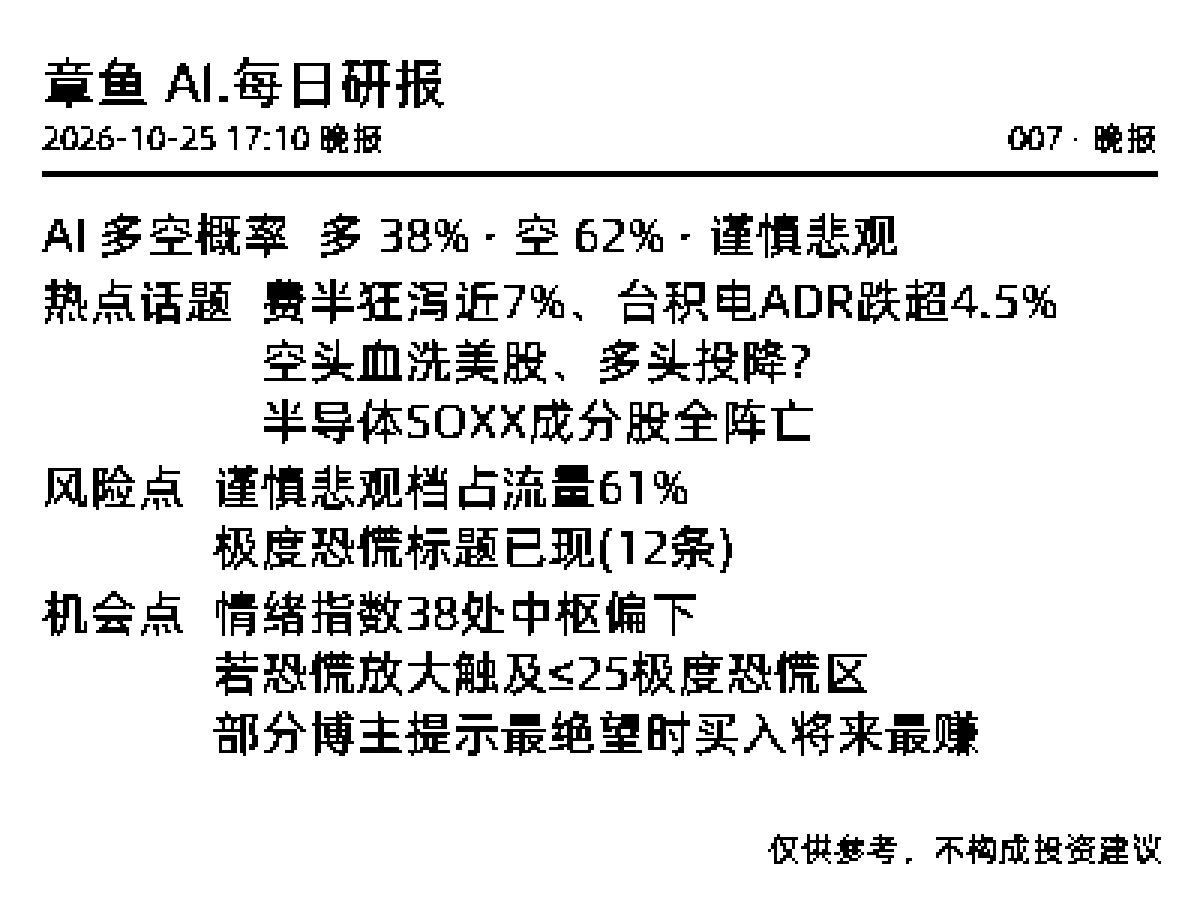
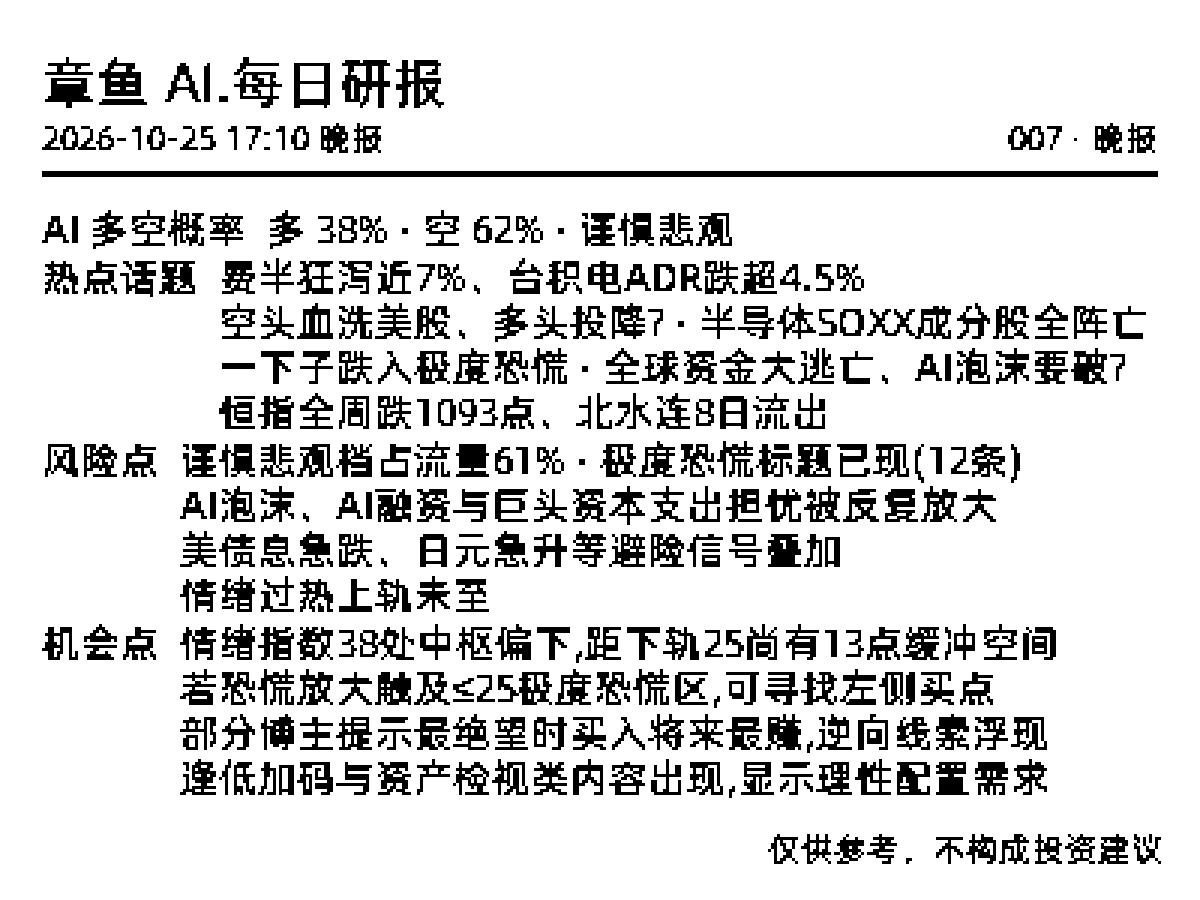
正文字号改 13px，排版整体紧凑
- 固定字号规格 fixed16 → fixed13：SUM_SIZE_SCALE、页面字号控件、
  WebFont 加载、字体样张基准（样张行现为 16/13/10，可真机对比新旧）
- 紧凑排版：行距三档整体收紧一档（行高倍数 1.5/1.36/1.25 → 1.36/1.25/1.15，
  块距同步减小）；仍按内容优先在完整方案中选保留最多的
- fixedCompact 不再写死字号数值：有显式固定字号且为矮屏即走单行紧凑
- 顺带补上上个提交未落盘的页面版本号串（统一为 20261025-fixed13）
- 测试：16px 规格断言全量切换为 13px；重载门槛按 13px 能力上调
  （400×300 ≥11 行、热点 ≥5 条、风险 ≥4 条、保留率 ≥50%）
  并新增紧凑行高断言
- 效果（真实普惠体字宽）：400×300 排满 13 行，截图量级数据保留率
  30%→64%（热点 6/6、风险 5/5、机会 4/5）；两款矮屏可排 5 行，
  概率栏恢复带情绪档完整显示；已更新预览图与两份文档

Changed region(s): [[0.0308, 0.2178, 0.9558, 0.9022]]

diff --git a/js/ai-summary.js b/js/ai-summary.js
@@ -298,7 +298,8 @@ function buildCard(report) {
 
 /**
  * 固定使用随页面打包的阿里巴巴普惠体 3.0 / 55 Regular。
- * 三款支持的屏幕正文均严格使用 16px；标题、栏目标签、正文均不合成粗体。
+ * 三款支持的屏幕正文均严格使用 13px（紧凑排版，一屏装下更多完整内容）；
+ * 标题、栏目标签、正文均不合成粗体。
  * 两款矮屏通过单行紧凑排版和完整短句候选保留全部四栏，而不是缩小字号。
  */
 const SUM_FONTS = {
@@ -310,7 +311,7 @@ const SUM_FONTS = {
 };
 
 const SUM_SIZE_SCALE = {
-  fixed16: { label: '16px', offset: 0, bodySize: 16 },
+  fixed13: { label: '13px', offset: 0, bodySize: 13 },
 };
 
 const SUM_WEB_FONT = 'Alibaba PuHuiTi 3';
@@ -323,7 +324,7 @@ function ensureSummaryFont() {
   }
   if (!sumFontLoadPromise) {
     sumFontLoadPromise = document.fonts.load(
-      '400 16px "' + SUM_WEB_FONT + '"', '章鱼研报多空热点风险机会'
+      '400 13px "' + SUM_WEB_FONT + '"', '章鱼研报多空热点风险机会'
     ).then(faces => {
       if (!faces || !faces.length) throw new Error('阿里巴巴普惠体加载失败');
       return true;
@@ -335,7 +336,7 @@ function ensureSummaryFont() {
   return sumFontLoadPromise;
 }
 
-/** 旧调用未指定固定字号时的兼容下限；页面的三款屏幕均固定使用 16px。 */
+/** 旧调用未指定固定字号时的兼容下限；页面的三款屏幕均固定使用 13px。 */
 const SUM_MIN_FONT = 10;
 
 function sumDisplayOptions() {
@@ -344,8 +345,8 @@ function sumDisplayOptions() {
   const font = SUM_FONTS[fontKey] || SUM_FONTS.puhui;
 
   const scaleEl = document.getElementById('sum-size-scale');
-  const scaleKey = (scaleEl && scaleEl.value) || 'fixed16';
-  const scaleDef = SUM_SIZE_SCALE[scaleKey] || SUM_SIZE_SCALE.fixed16;
+  const scaleKey = (scaleEl && scaleEl.value) || 'fixed13';
+  const scaleDef = SUM_SIZE_SCALE[scaleKey] || SUM_SIZE_SCALE.fixed13;
 
   return {
     fontKey: SUM_FONTS[fontKey] ? fontKey : 'puhui',
@@ -358,7 +359,7 @@ function sumDisplayOptions() {
   };
 }
 
-// ---------- 偏好记忆（字体 / 16px 固定，只记屏幕尺寸与预览倍数） ----------
+// ---------- 偏好记忆（字体 / 13px 固定，只记屏幕尺寸与预览倍数） ----------
 
 const SUM_PREF_KEYS = ['sum-size', 'sum-zoom'];
 
@@ -589,7 +590,7 @@ function drawCard(ctx, card, w, h, opts) {
   const areaHeight = areaBottom - areaTop;
 
   // 未显式传入固定字号的兼容路径仍按画布计算上下限；页面配置会在下方
-  // 直接指定 16px，不使用这套自适应上限。
+  // 直接指定 13px，不使用这套自适应上限。
   const baseBody = clamp(Math.round(h * 0.052), SUM_MIN_FONT, 22);
   const maxBody = clamp(Math.min(baseBody + 7, Math.floor(areaHeight / 5.2)), baseBody, 24);
 
@@ -600,7 +601,9 @@ function drawCard(ctx, card, w, h, opts) {
   const squeezeText = t => String(t).replace(/\s+/g, '');
 
   const totalChars = source.reduce((a, it) => a + squeezeText(it.text).length, 0) || 1;
-  const fixedCompact = Number(opts.bodySize) === 16 && h <= 128;
+  // 页面显式固定字号（当前 13px）时，两款矮屏走单行紧凑承载四栏；
+  // 不写死具体字号数字，改字号规格时这里不用跟着改
+  const fixedCompact = Number.isFinite(Number(opts.bodySize)) && h <= 128;
 
   /** 某个字号下，每条内容按可用宽度折行后的行数 */
   const measureBlock = (item, bodySize, labelSize) => {
@@ -616,9 +619,10 @@ function drawCard(ctx, card, w, h, opts) {
   };
 
   /**
-   * 「尽量一屏，不够用简单压缩」排版：
-   *   ① 间距三档（profile）：0 宽松 → 1 紧 → 2 紧凑，只压行距/块距，不缩字号；
-   *      两款矮屏在 1 档起直接用单行紧凑（122/128px 容纳四个 16px 区块）。
+   * 「尽量一屏，不够用简单压缩」排版（13px 紧凑规格）：
+   *   ① 间距三档（profile）整体走紧凑：0 档行高 1.36 → 1 档 1.25 → 2 档 1.15，
+   *      只压行距/块距，不缩字号；两款矮屏在 1 档起直接用单行紧凑
+   *      （122/128px 高度容纳四个 13px 区块，富余行数还可给某一栏排两行）。
    *   ② 每栏自带逐级更短的完整候选（候选阶梯见 itemVariants）：
    *      先按全文量行，放不下就把「当前行数最多」的一栏整栏降一档，
    *      循环到总行数能装进一屏——行数在各栏之间自然均衡，无需预先分行。
@@ -634,14 +638,14 @@ function drawCard(ctx, card, w, h, opts) {
       lineH = bodySize;
       blockGap = 1;
     } else if (profile <= 0) {
-      lineH = Math.round(bodySize * 1.5);
-      blockGap = Math.max(2, Math.round(bodySize * 0.4));
-    } else if (profile === 1) {
       lineH = Math.round(bodySize * 1.36);
       blockGap = Math.max(2, Math.round(bodySize * 0.24));
-    } else {
+    } else if (profile === 1) {
       lineH = Math.round(bodySize * 1.25);
       blockGap = 2;
+    } else {
+      lineH = Math.round(bodySize * 1.15);
+      blockGap = 1;
     }
     const capacity = Math.floor((areaHeight - blockGap * (count - 1)) / lineH);
     if (capacity < count) return null;
@@ -725,10 +729,10 @@ function drawCard(ctx, card, w, h, opts) {
   const keptCharsOf = got => got.blocks.reduce((a, b) => a + squeezeText(b.item.text.replace(/…$/, '')).length, 0);
 
   /**
-   * 某个字号下把间距三档「宽松 → 紧 → 紧凑」都试排一遍，内容优先：
+   * 某个字号下把三档紧凑行距（1.36 → 1.25 → 1.15）都试排一遍，内容优先：
    *   ① 能完整装进一屏（clean）的方案里，选保留内容最多的——
-   *      内容重的日子会自动收紧间距多装两行，而不是宽松地只剩半栏；
-   *   ② 保留字数相同时取更宽松的间距（先试到的先得），内容轻时排得舒展；
+   *      内容重的日子会自动收紧间距多装几行，而不是只剩半栏；
+   *   ② 保留字数相同时取相对宽松的一档（先试到的先得；最松一档也是紧凑行距）；
    *   ③ 三档都不完整时，取保留内容最多的兜底。
    */
   const bestPlanAt = (size) => {
@@ -758,7 +762,7 @@ function drawCard(ctx, card, w, h, opts) {
     return fallback ? fallback.size : SUM_MIN_FONT;
   };
 
-  // 显式配置的 16px 不再受矮屏自适应上限影响；两款矮屏由紧凑单行布局承载。
+  // 显式配置的 13px 不再受矮屏自适应上限影响；两款矮屏由紧凑单行布局承载。
   const minReadable = clamp(Math.round(h * 0.09), SUM_MIN_FONT, 14);
   const requestedSize = Number(opts.bodySize);
   const preferredSize = Number.isFinite(requestedSize) ? requestedSize : nativeSize() + offset;
@@ -1151,7 +1155,7 @@ function drawFontSample(ctx, w, h, opts) {
 
   const headTop = pad + titleSize + Math.round(pad * 0.4);
   ctx.font = cardFont(headSize, opts, false);
-  ctx.fillText('同句对比 · 全部非加粗 · 基准16px', pad, headTop);
+  ctx.fillText('同句对比 · 全部非加粗 · 基准13px', pad, headTop);
   const right = '挑最清楚的';
   ctx.fillText(right, w - pad - ctx.measureText(right).width, headTop);
 
@@ -1160,7 +1164,7 @@ function drawFontSample(ctx, w, h, opts) {
   ctx.fillRect(pad, ruleY, maxWidth, ruleH);
 
   const requested = Number(opts && opts.bodySize);
-  const base = Math.max(SUM_MIN_FONT, Math.min(22, Number.isFinite(requested) ? requested : 16));
+  const base = Math.max(SUM_MIN_FONT, Math.min(22, Number.isFinite(requested) ? requested : 13));
   // 样张可比较相邻字号，但所有行都保持用户指定的 Regular 字重。
   const rows = [base + 3, base, base - 3, base - 5]
     .map(size => ({ size, bold: false }))

diff --git a/index.html b/index.html
@@ -5,7 +5,7 @@
     <meta name="viewport" content="width=device-width, initial-scale=1">
     <title>章鱼 AI.每日研报</title>
     <link rel="preload" href="fonts/AlibabaPuHuiTi-3-55-Regular.woff2" as="font" type="font/woff2" crossorigin>
-	<link rel="stylesheet" href="css/main.css?v=20261024-puhui16">
+	<link rel="stylesheet" href="css/main.css?v=20261025-fixed13">
 </head>
 
 <body>
@@ -47,8 +47,8 @@
                         <option value="puhui" selected>阿里巴巴普惠体（非加粗）</option>
                     </select>
                     <label for="sum-size-scale">字号</label>
-                    <select id="sum-size-scale" disabled aria-label="固定字号：16px">
-                        <option value="fixed16" selected>16px</option>
+                    <select id="sum-size-scale" disabled aria-label="固定字号：13px">
+                        <option value="fixed13" selected>13px</option>
                     </select>
                     <label for="sum-zoom">预览</label>
                     <select id="sum-zoom" onchange="previewSummary()">
@@ -67,7 +67,7 @@
                     <button id="btn-push-sample" type="button" class="secondary" onclick="pushFontSample()">推送字体样张</button>
                 </div>
             </div>
-            <div class="sum-hint">每天澳门时间 09:10 / 17:10 读取仓库 007；屏上只显示「AI 多空概率、热点话题、风险点、机会点」。固定使用阿里巴巴普惠体、16px、非加粗；三种屏幕均保留完整四栏。内容多时自动简单压缩（去权重标注 → 完整短句 → 减条数 → 收紧行距）装进一屏，不把句子截断。</div>
+            <div class="sum-hint">每天澳门时间 09:10 / 17:10 读取仓库 007；屏上只显示「AI 多空概率、热点话题、风险点、机会点」。固定使用阿里巴巴普惠体、13px、非加粗、紧凑排版；三种屏幕均保留完整四栏。内容多时自动简单压缩（去权重标注 → 完整短句 → 减条数 → 收紧行距）装进一屏，不把句子截断。</div>
             <canvas id="sum-preview"
                 style="display:none;width:100%;max-width:420px;margin-top:10px;border:1px solid #E4E4E7;image-rendering:pixelated;"></canvas>
             <div id="sum-status" style="margin-top:8px;font-size:0.9rem;color:#666;">尚未生成预览</div>
@@ -89,8 +89,8 @@
             <div id="auto-status" style="margin-top:8px; font-size:0.9rem; color:#666;">自动推送：已停止</div>
         </fieldset>
     </div>
-    <script type="text/javascript" src="js/main.js?v=20261024-puhui16"></script>
-    <script type="text/javascript" src="js/ai-summary.js?v=20261024-puhui16"></script>
+    <script type="text/javascript" src="js/main.js?v=20261025-fixed13"></script>
+    <script type="text/javascript" src="js/ai-summary.js?v=20261025-fixed13"></script>
 </body>
 
 </html>

diff --git a/字体与字号-调整说明.md b/字体与字号-调整说明.md
@@ -10,7 +10,7 @@
 
 | 序号 | 根因 | 说明 |
 |---:|---|---|
-| 01 | 字号不稳定 | 自动字号会让同一份研报在不同内容下改变观感；当前三款支持屏幕均固定为 16px。 |
+| 01 | 字号不稳定 | 自动字号会让同一份研报在不同内容下改变观感；当前三款支持屏幕均固定为 13px。 |
 | 02 | 浏览器合成粗体 | 人工加粗在 1bpp 下容易让「日/目/口」等字腔糊成实心块，因此全卡改用 Regular。 |
 | 03 | 依赖系统字体 | 不同系统可能落到不同中文字体，字形和宽度不稳定；当前自托管阿里巴巴普惠体。 |
 | 04 | 字体未加载就量字 | Canvas 若先用后备字体计算宽度，WebFont 到达后不会自动重画；当前绘制前显式等待字体加载。 |
@@ -20,7 +20,7 @@
 
 | 项 | 当前实现 |
 |---|---|
-| 字号 | 400×300、296×128、250×122 正文均固定为 **16px**；矮屏改用紧凑单行，不缩字号 |
+| 字号 | 400×300、296×128、250×122 正文均固定为 **13px**（由 16px 改小以在一屏装下更多完整内容），排版取紧凑行距（行高倍数 1.36 / 1.25 / 1.15 三档）；矮屏改用紧凑单行，不缩字号 |
 | 字重 | 全卡固定 `font-weight: 400`，标题、标签和正文都不合成粗体 |
 | 字体 | 自托管 **阿里巴巴普惠体 3.0 / 55 Regular**；Canvas 绘制与推送前等待 `document.fonts.load()` 完成 |
 | 二值化 | 阈值 176；位平面行尾补齐保持白色 |
@@ -33,17 +33,17 @@
 | 控件 | 作用 |
 |---|---|
 | 字体 | 固定显示“阿里巴巴普惠体（非加粗）”，避免旧偏好覆盖新规范 |
-| 字号 | 固定显示“16px”；三款支持屏幕都真正以 16px 绘制 |
+| 字号 | 固定显示“13px”；三款支持屏幕都真正以 13px 绘制 |
 | 预览 | 1× / 2× / 3×；只放大网页预览，不改变设备位图 |
-| 推送字体样张 | 使用阿里巴巴普惠体 Regular 比较 16px 附近的字号，所有样张行均非加粗 |
+| 推送字体样张 | 使用阿里巴巴普惠体 Regular 比较 13px 附近的字号，所有样张行均非加粗 |
 | 记忆 | 仅屏幕尺寸和预览倍数写入 `localStorage` |
 
 ## 4. 真机验证
 
 1. 用支持 Web Bluetooth 的浏览器打开页面。
-2. 确认固定设置显示“阿里巴巴普惠体（非加粗）/ 16px”。
+2. 确认固定设置显示“阿里巴巴普惠体（非加粗）/ 13px”。
 3. 连接设备，点击「推送字体样张」检查 Regular 字形。
-4. 点击「重新读取 007 并预览」，确认四栏和状态栏中的 `16px`。
+4. 点击「重新读取 007 并预览」，确认四栏和状态栏中的 `13px`。
 5. 点击「推送最新每日研报」。
 
 ## 5. 自测
@@ -52,4 +52,4 @@
 node --test tests/*.test.js
 ```
 
-测试覆盖真实 007 JSON、四栏目白名单、标题、阿里巴巴普惠体 WebFont 等待、三款屏幕的 16px / Regular 约束、三种屏幕尺寸、完整短句降级、边界、1bpp 黑白 / 红色位平面、字体样张，以及每日 09:15 / 17:15 两次自动推送调度。
+测试覆盖真实 007 JSON、四栏目白名单、标题、阿里巴巴普惠体 WebFont 等待、三款屏幕的 13px / Regular 约束、三种屏幕尺寸、完整短句降级、边界、1bpp 黑白 / 红色位平面、字体样张，以及每日 09:15 / 17:15 两次自动推送调度。

diff --git a/README.md b/README.md
@@ -57,7 +57,7 @@ js/ai-summary.js
 2. 点击**连接**并选择墨水屏；旧设备句柄失效时使用**重新选择设备**。
 3. 页面会自动读取最新 007 JSON 并显示预览。
 4. 点击**推送最新每日研报**，将预览写入设备。
-5. 字体固定为阿里巴巴普惠体 3.0 Regular、三种屏幕正文固定 16px、全卡非加粗；仍可切换屏幕尺寸、预览倍数、180° 旋转和黑白红三色模式。
+5. 字体固定为阿里巴巴普惠体 3.0 Regular、三种屏幕正文固定 13px、全卡非加粗、排版紧凑；仍可切换屏幕尺寸、预览倍数、180° 旋转和黑白红三色模式。
 
 ### 每天两次自动显示
 
@@ -83,9 +83,9 @@ js/ai-summary.js
 | 标题 | 固定为用户指定的 **`章鱼 AI.每日研报`** |
 | 屏幕尺寸 | 4.2 寸 `400×300`（默认）、2.9 寸 `296×128`、2.13 寸 `250×122` |
 | 四栏保留 | 三种尺寸均保留 AI 多空概率 / 热点话题 / 风险点 / 机会点，不因小屏删除末栏 |
-| 一屏压缩 | 内容尽量一屏，不够时简单压缩：每栏备有“完整含标注 → 去权重留情绪档 → 纯标题 → 全部完整短句 → 减少条数”的候选阶梯，排版时逐栏降档并配合“宽松 → 紧 → 紧凑”三档行距，在能完整装下一屏的方案中选保留内容最多的；不把标题或风险句腰斩，上游自带的省略断尾在解析时清理（见 `一屏压缩-400x300预览.png`） |
+| 一屏压缩 | 内容尽量一屏，不够时简单压缩：每栏备有“完整含标注 → 去权重留情绪档 → 纯标题 → 全部完整短句 → 减少条数”的候选阶梯，排版时逐栏降档并配合三档紧凑行距（行高倍数 1.36 → 1.25 → 1.15），在能完整装下一屏的方案中选保留内容最多的；不把标题或风险句腰斩，上游自带的省略断尾在解析时清理（见 `一屏压缩-400x300预览.png`） |
 | 字体 | 固定为仓库内置的 **阿里巴巴普惠体 3.0 / 55 Regular**；Canvas 会等待 WebFont 加载完成，不静默回退系统字体 |
-| 字号与字重 | 400×300、296×128、250×122 正文均严格使用 **16px、font-weight 400、非加粗**；矮屏用紧凑单行与完整短句候选保留四栏，不缩字号 |
+| 字号与字重 | 400×300、296×128、250×122 正文均严格使用 **13px、font-weight 400、非加粗**；矮屏用紧凑单行与完整短句候选保留四栏，不缩字号 |
 | 二值化 | 1bpp 阈值 176；宽度不是 8 的倍数时行尾补齐位保持白色 |
 
 ## 本地运行与测试
